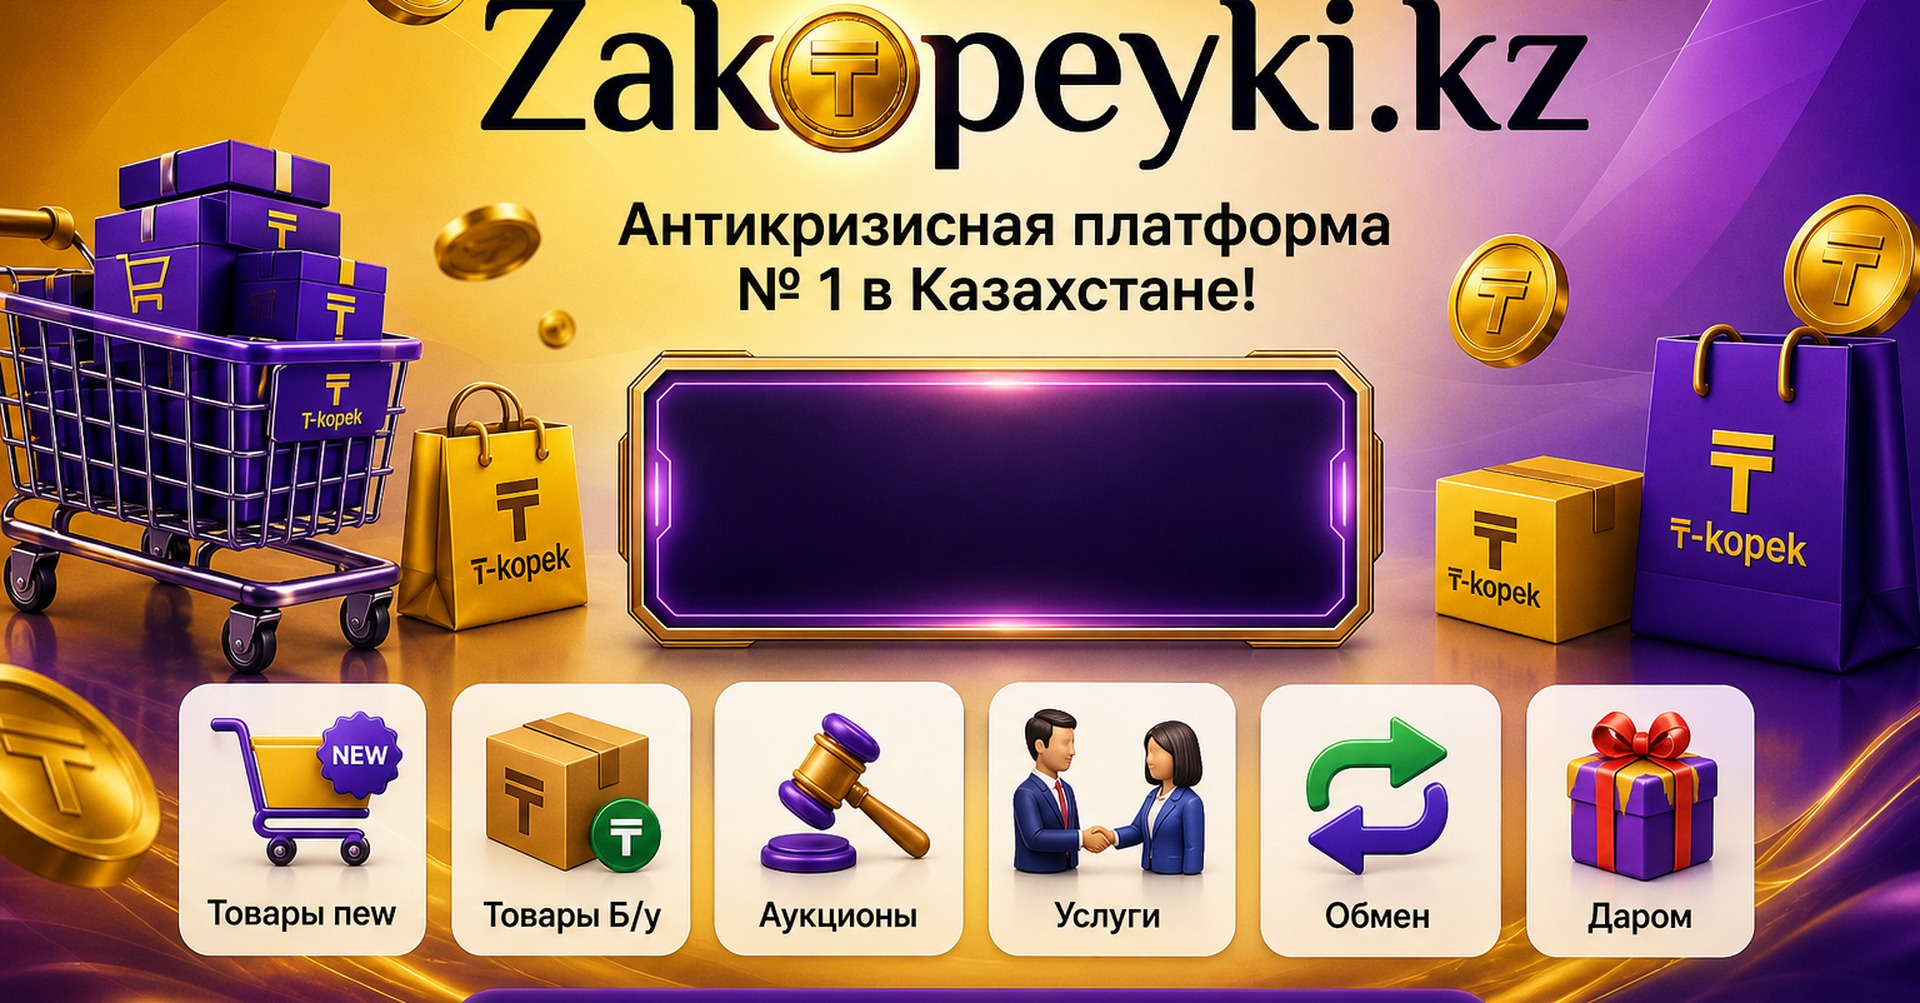
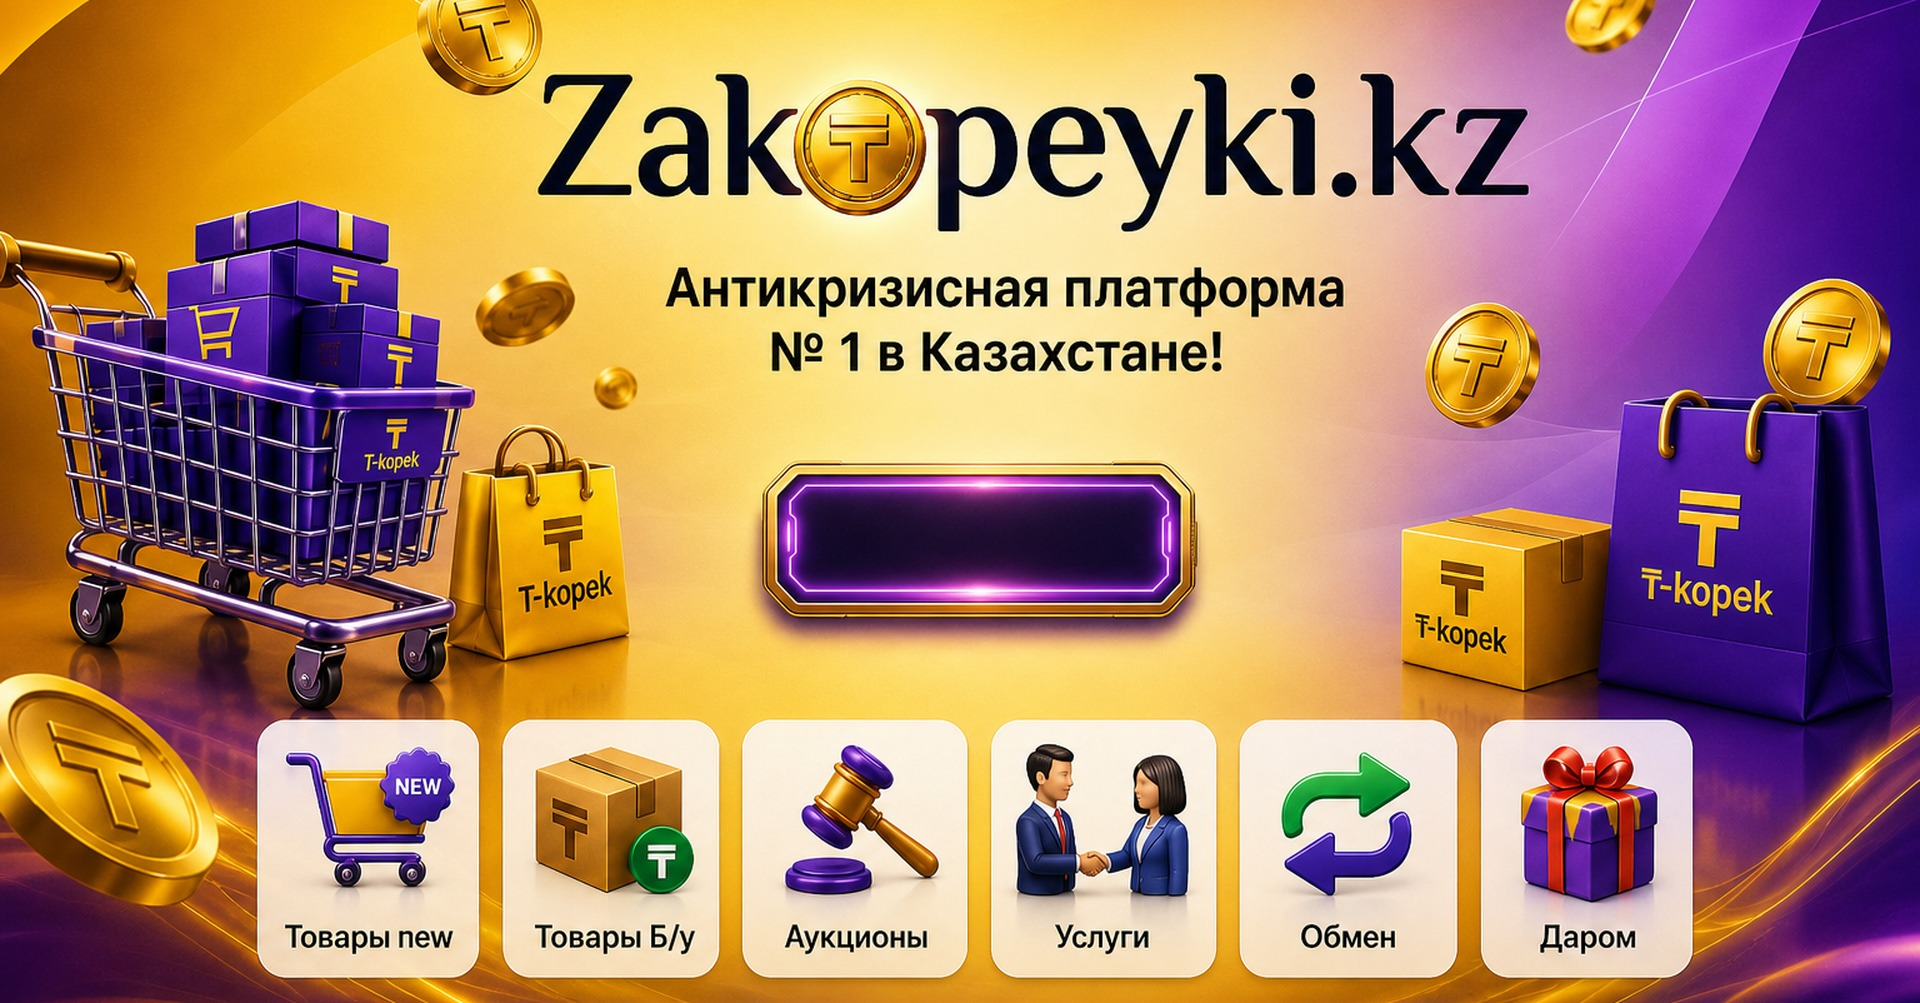
Update coming-soon page styles and replace hero image
This commit modifies the CSS styles for the coming-soon page, adjusting the layout and dimensions of the countdown slot, title, note, and number elements for improved responsiveness. Additionally, the hero image has been replaced to enhance visual appeal. These changes aim to provide a better user experience while maintaining consistency across different screen sizes.

diff --git a/app/Views/stub/coming-soon.php b/app/Views/stub/coming-soon.php
@@ -195,10 +195,10 @@ body {
 
 .countdown-slot {
   position: absolute;
-  left: 52.1%;
-  top: 56%;
-  width: 34%;
-  height: 30%;
+  left: 51%;
+  top: 53.6%;
+  width: 20.4%;
+  height: 11.4%;
   transform: translate(-50%, -50%);
   z-index: 3;
   display: flex;
@@ -213,16 +213,16 @@ body {
   flex-direction: column;
   align-items: center;
   justify-content: center;
-  gap: clamp(0.2rem, 0.7cqw, 0.7rem);
+  gap: 0.18em;
   width: 100%;
   height: 100%;
-  padding: 4% 3%;
+  padding: 0.15em 0.35em 0.2em;
   text-align: center;
 }
 
 .cd-title {
   margin: 0;
-  font-size: clamp(0.5rem, 1.15cqw, 1rem);
+  font-size: clamp(0.42rem, 0.95cqw, 0.82rem);
   font-weight: 600;
   color: #fff;
   letter-spacing: 0.01em;
@@ -231,8 +231,8 @@ body {
 }
 
 .cd-note {
-  margin: 0;
-  font-size: clamp(0.4rem, 0.9cqw, 0.78rem);
+  margin: 0.05em 0 0;
+  font-size: clamp(0.34rem, 0.72cqw, 0.62rem);
   font-weight: 600;
   color: rgba(255, 255, 255, 0.92);
   letter-spacing: 0.02em;
@@ -257,7 +257,7 @@ body {
 }
 
 .cd-num {
-  font-size: clamp(0.85rem, 2.85cqw, 2.55rem);
+  font-size: clamp(0.7rem, 2.15cqw, 1.85rem);
   font-weight: 800;
   letter-spacing: 0.02em;
   line-height: 1;
@@ -281,7 +281,7 @@ body {
 }
 
 .cd-sep {
-  font-size: clamp(0.75rem, 2.5cqw, 2.2rem);
+  font-size: clamp(0.6rem, 1.9cqw, 1.65rem);
   font-weight: 800;
   line-height: 1;
   padding-top: 0.05em;
@@ -675,9 +675,10 @@ body.debug .hit {
 /* Tablet */
 @media (max-width: 899px) {
   .countdown-slot {
-    top: 56%;
-    width: 36%;
-    height: 32%;
+    left: 51%;
+    top: 53.6%;
+    width: 22%;
+    height: 12%;
     transform: translate(-50%, -50%);
   }
 
@@ -1083,11 +1084,11 @@ body.debug .hit {
 
   .countdown-slot {
     position: absolute;
-    left: 52.1%;
-    top: 56%;
+    left: 51%;
+    top: 53.6%;
     transform: translate(-50%, -50%);
-    width: 36%;
-    height: 32%;
+    width: 22%;
+    height: 12.5%;
     margin: 0;
     max-width: none;
   }
